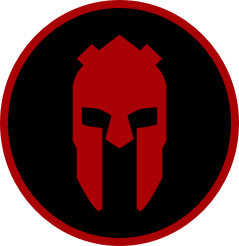
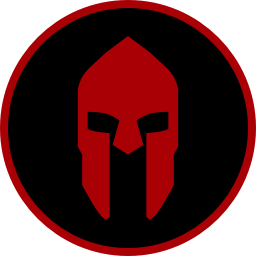
tweaks

diff --git a/components/Home/SpartaSection.tsx b/components/Home/SpartaSection.tsx
@@ -20,7 +20,7 @@ export const SpartaSection: FC = () => (
           <div className="container">
             <div className="row">
               <div className="col">
-                <img className="img-fluid" style={{ width: 200 }} src={require('assets/supply-circle.png')} />
+                <img className="img-fluid" style={{ width: 200 }} src={require('assets/spartan-coin.png')} />
               </div>
             </div>
           </div>
